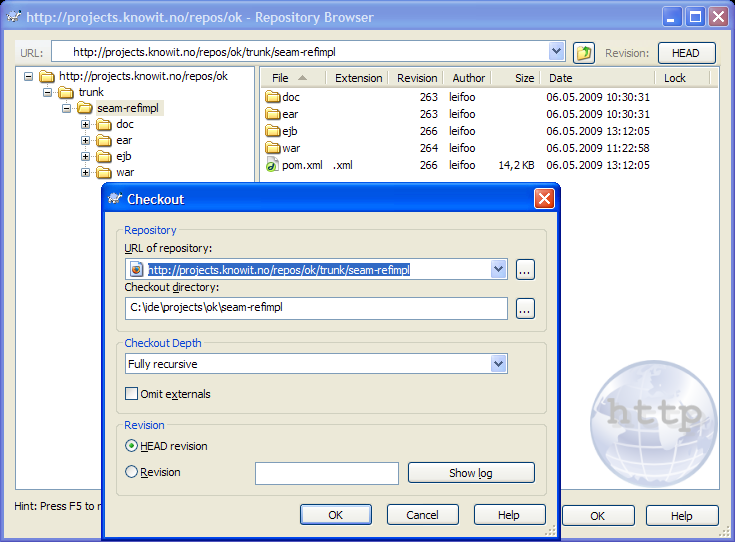
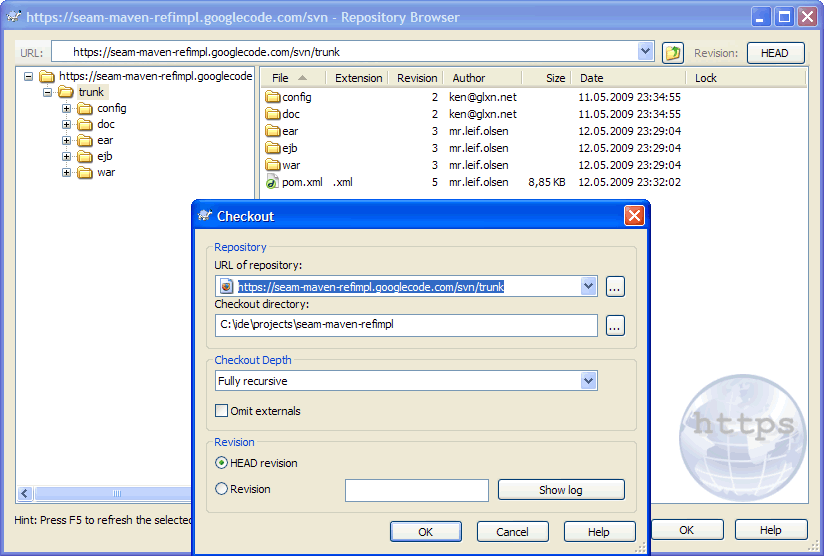
updated doc/tutorial/01-gettingstarted.html

diff --git a/doc/tutorial/01-gettingstarted.html b/doc/tutorial/01-gettingstarted.html
@@ -7,15 +7,18 @@
 <body>
 
 <h1>Getting Started</h1>
-<p>Describes the necessary steps to get a Mavenized Seam project up and running.</p>
+<p>The getting started tutorial describes the necessary steps to get a Mavenized Seam project up and 
+  running.</p>
 <p>You must have a basic understanding of 
-  <a href="http://docs.jboss.com/seam/latest/reference/en-US/html/Book-Preface.html">JBoss Seam</a>, the
+  <a href="http://docs.jboss.com/seam/latest/reference/en-US/html/Book-Preface.html">
+    JBoss Seam</a> (EJB3, JPA, JSF), the
   <a href="http://www.jboss.org/jbossas/docs/index.html">JBoss application server</a>,
   <a href="http://maven.apache.org/guides/getting-started/">Maven</a> and the DBMS of your choice, e.g. 
   <a href="http://dev.mysql.com/">MySql5</a>, to follow this tutorial.</p>
 
 <h2>Environment Variables</h2>
-<p>The environment variables listed here are just shortcuts so we don't have to type the tedious file paths over and over again in this document.</p>
+<p>The environment variables listed here are just shortcuts so we don't have to type the tedious file 
+  paths over and over again in this document.</p>
 <ul>
   <li><code>${JBOSS_HOME}</code>  - refers to Jboss installation folder, e.g. C:\servers\jboss-4.2.3.GA</li>
   <li><code>${JBOSS_CONFIG}</code> - refers to the configuration directory e.g. C:\servers\jboss-4.2.3.GA\default
@@ -27,9 +30,9 @@
 <ul>
   <li><a href="http://java.sun.com/javase/downloads/index.jsp">jdk-1.5</a></li>
   <li><a href="http://maven.apache.org/download.html">Maven 2.0.10</a> or 
-    <a href="https://repository.apache.org/content/repositories/maven-staging-010/org/apache/maven/apache-maven/2.2.0-RC2/">Maven 2.2.x</a>
-    <strong>Note:</strong> Do not use Maven 2.1.0, it has a serious bug. 
-    See the <code>${SEAM_REFIMPL}/doc/maven-2.1.0-bug</code> folder for an explanation.</li>
+    <a href="https://repository.apache.org/content/repositories/maven-staging-010/org/apache/maven/apache-maven/2.2.0-RC2/">
+      Maven 2.2.x</a> <strong>Note:</strong> Do not use Maven 2.1.0, it has a serious bug. 
+      See the <code>${SEAM_REFIMPL}/doc/maven-2.1.0-bug</code> folder for an explanation.</li>
   <li>
     <a href="http://tortoisesvn.tigris.org/">Tortoise SVN</a> or a SVN client of your choice. 
     <strong>Note:</strong> The svn client must be compatible with 
@@ -42,7 +45,7 @@
 <h2>Check Out, Install and Run the Project</h2>
 <p>The example uses Tortoise SVN to check out the project.<br/>
   <strong>Note:</strong> If you downloaded this project as a zip-file then unzip the file to a folder 
-  of your choice and <a href="#install-and-run">jump to step 3</a> in this section.</p>
+  of your choice and <a href="#install-and-run">jump to step 3</a> of this section.</p>
 <ol>
   <li>In explorer right click on the folder where you want to check out the project and select 
   <strong>TortoiseSVN &gt; Repo-browser</strong> from the menu.
@@ -51,7 +54,7 @@
   </li>
   <li>Open <code>http://projects.knowit.no/repos/ok/trunk</code> in Repo-browser
     <ul>
-      <li>Navigate to <code>http://projects.knowit.no/repos/ok/trunk/seam-refimpl</code></li>
+      <li>Navigate to <code>https://seam-maven-refimpl.googlecode.com/svn/trunk</code></li>
       <li>Right click the <strong>seam-refimpl</strong> project and select <strong>checkout...</strong> 
         from the menu.</li>
       <li>Click the <strong>OK</strong> button to check out the project.</li>
